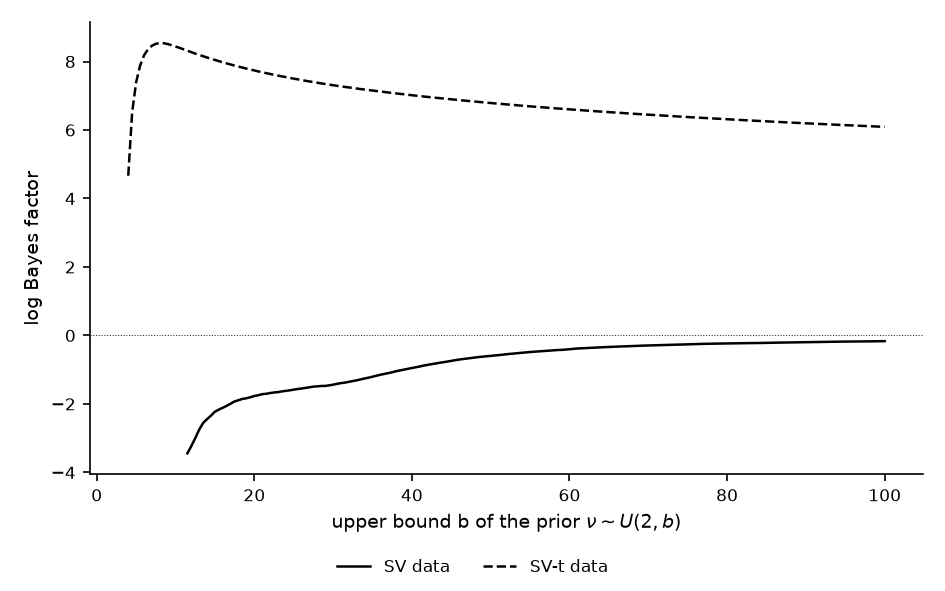
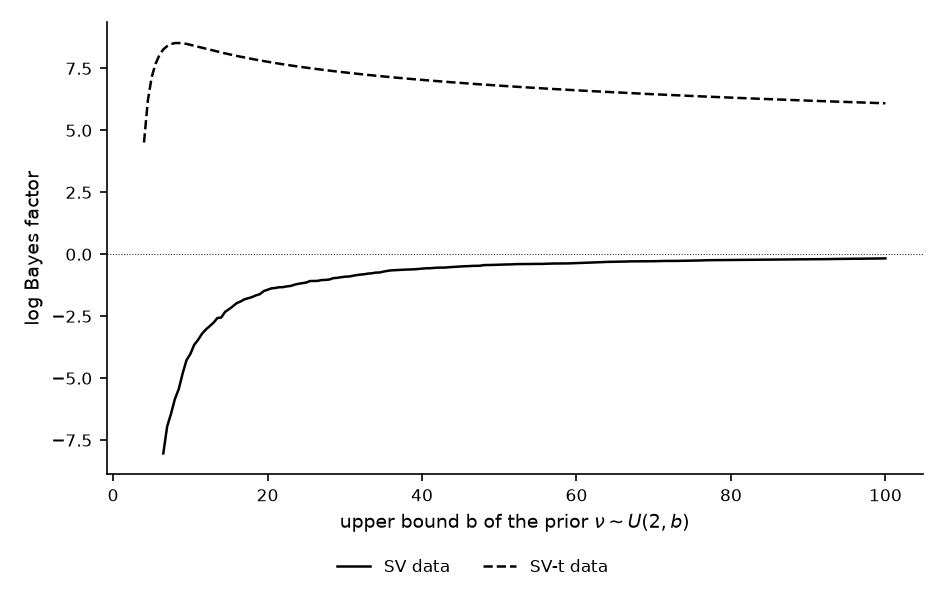
Take the prior variations of sv_compare from its importance draws
The Gibbs draws come from the mixture approximation, and the importance weights correct for it.
At b = 5 on the SV-t data the log Bayes factor moves from 7.39 to 7.16.

diff --git a/guides/sv_compare/guide.py b/guides/sv_compare/guide.py
@@ -4,12 +4,12 @@ likelihoods on two data sets: the data of guides/sv_states, generated by SV, and
 guides/sv_t, generated by SV-t. ssm.intlike_sv and ssm.intlike_sv_t integrate the log-volatilities
 out, the Gibbs samplers of guides/sv_gibbs and guides/sv_t draw the parameters, and importance
 sampling with the cross-entropy importance density estimates the marginal likelihoods. Section 2
-computes the Bayes factor of SV-t against SV under other priors of nu from the same draws. Section
-3 changes the prior of mu_h. The sections called "the code to adapt" are all a comparison needs.
-The checks compute the marginal likelihood of the constant variance by quadrature, the integrated
-likelihood of the first 50 observations by importance sampling from the prior of h, the estimates
-under another seed and with more draws of h, and one marginal likelihood of section 2 from a new
-run. Saves fig_prior.png next to this file.
+computes the Bayes factor of SV-t against SV under other priors of nu from the same importance
+draws. Section 3 changes the prior of mu_h. The sections called "the code to adapt" are all a
+comparison needs. The checks compute the marginal likelihood of the constant variance by
+quadrature, the integrated likelihood of the first 50 observations by importance sampling from
+the prior of h, the estimates under another seed and with more draws of h, and one marginal
+likelihood of section 2 from a new run. Saves fig_prior.png next to this file.
 """
 
 import os
@@ -137,7 +137,7 @@ def is_logml(lp, draws, R, rng):
     """log p(y) by importance sampling, as in guides/tvp_compare: a t density with 5 degrees of
     freedom at the mean and covariance of the posterior draws, the cross-entropy fit of a normal
     density (Chan and Eisenstat, 2015), with heavier tails. lml is the log of the mean of all R
-    weights; nse comes from 20 batches."""
+    weights; nse comes from 20 batches. logw and phi are the log weights and the R draws."""
     nu = 5
     d = draws.shape[1]
     m = draws.mean(axis=0)
@@ -152,7 +152,27 @@ def is_logml(lp, draws, R, rng):
     lml = logmeanexp(logw)
     lb = np.array([logmeanexp(wb) for wb in logw.reshape(20, R // 20)])
     nse = lb.std(ddof=1) / np.sqrt(20)
-    return lml, nse
+    return lml, nse, logw, phi
+
+
+def is_bound(logw, nu, b, nuub):
+    """log p(y) under nu ~ U(2, b), from the log weights logw and the draws nu of is_logml under
+    nu ~ U(2, nuub): the log of the mean of w_r*(nuub - 2)/(b - 2)*1(nu_r < b). nse comes from
+    the 20 batches of is_logml, by the delta method, since a batch can hold no draw below b.
+    p = Pr(nu < b | y), the share of the weights on the draws below b; n = their number."""
+    R = logw.size
+    inb = nu < b
+    n = int(np.sum(inb))
+    if n == 0:                                          # no draw below b
+        return -np.inf, np.nan, 0.0, 0
+    mx = np.max(logw)
+    w = np.exp(logw - mx)
+    wb = w * inb * (nuub - 2) / (b - 2)
+    lml = mx + np.log(np.mean(wb))
+    mb = wb.reshape(20, R // 20).mean(axis=1)           # the batch means
+    nse = mb.std(ddof=1) / (np.sqrt(20) * mb.mean())
+    p = np.sum(w[inb]) / np.sum(w)
+    return lml, nse, p, n
 
 
 def prior_is(s2, muh, phi, sig2h, nu, N, nb, rng):
@@ -235,13 +255,14 @@ def ljnu(nu):
 
 
 nsim, burnin, R, Mh = 5000, 500, 5000, 50
-nsim_t = 20000                                  # SV-t: the tail of nu needs a longer chain
+nsim_t = 20000                                  # SV-t: the draws of nu are highly autocorrelated
 lml = np.zeros((3, 2))
 nse = np.zeros((3, 2))
 post = {}                                       # post[m, d]: the draws of model m on data set d
 hbar = {}
 lml_q = np.zeros(2)
 lratio = np.zeros(2)
+lw, zr = {}, {}                                 # the log weights and the importance draws
 for d in range(2):
     y = Y[d]
     # constant variance: y_t ~ N(mu, e^{mu_h}), z = (mu, mu_h); exact draws and quadrature
@@ -251,7 +272,7 @@ for d in range(2):
         return (np.sum(lnorm(y, z[0], np.exp(z[1]))) + lnorm(z[0], pr.mu0, pr.Vmu)
                 + lnorm(z[1], pr.muh0, pr.Vmuh))
 
-    lml[0, d], nse[0, d] = is_logml(lp_cv, post[0, d], R, rng)
+    lml[0, d], nse[0, d], lw[0, d], zr[0, d] = is_logml(lp_cv, post[0, d], R, rng)
 
     # SV: z = (mu, mu_h, atanh(phi), log sigma_h^2); the draws of guides/sv_gibbs
     th, hbar[1, d] = sv_gibbs(y, nsim, burnin, pr, rng)
@@ -264,7 +285,7 @@ for d in range(2):
         ljac = np.log(1 - phi**2) + z[3]                # log Jacobian of (phi, sigma_h^2)
         return ll + lprior(mu, muh, phi, sig2h) + ljac
 
-    lml[1, d], nse[1, d] = is_logml(lp_sv, post[1, d], R, rng)
+    lml[1, d], nse[1, d], lw[1, d], zr[1, d] = is_logml(lp_sv, post[1, d], R, rng)
 
     # SV-t: z adds log((nu - 2)/(nuub - nu)); the draws of guides/sv_t
     th, hbar[2, d] = svt_gibbs(y, nsim_t, burnin, pr, rng)
@@ -279,7 +300,7 @@ for d in range(2):
         ljac = np.log(1 - phi**2) + z[3] + ljnu(nu)                # the log Jacobian
         return ll + lpri + ljac
 
-    lml[2, d], nse[2, d] = is_logml(lp_svt, post[2, d], R, rng)
+    lml[2, d], nse[2, d], lw[2, d], zr[2, d] = is_logml(lp_svt, post[2, d], R, rng)
 
 # ---- 1. the results and the checks ----
 print(f'\nlog marginal likelihoods (numerical standard errors), R = {R}, {Mh} draws of h per call')
@@ -364,9 +385,9 @@ for d in range(2):
                     return (ll + lprior(mu, muh, phi, sig2h) - np.log(pr.nuub - 2)
                             + np.log(1 - phi**2) + z[3] + ljnu(nu))
             if k == 0:
-                lml_s[m - 1, d], nse_s[m - 1, d] = is_logml(lp, post[m, d], Rk, rng)
+                lml_s[m - 1, d], nse_s[m - 1, d], _, _ = is_logml(lp, post[m, d], Rk, rng)
             else:
-                lml_m[m - 1, d], nse_m[m - 1, d] = is_logml(lp, post[m, d], Rk, rng)
+                lml_m[m - 1, d], nse_m[m - 1, d], _, _ = is_logml(lp, post[m, d], Rk, rng)
 print(f'\nseed 3 and {Mh} draws of h, R = {R}; {4 * Mh} draws of h, R = {R // 2}:')
 for d in range(2):
     for m in (1, 2):
@@ -377,28 +398,29 @@ for d in range(2):
               f'{lml_m[m - 1, d]:.2f} ({nse_m[m - 1, d]:.3f}); largest gap {gaps.max():.1f} '
               f'joint standard errors')
 
-# ---- 2. the prior of nu: the log Bayes factor of SV-t against SV, from the same draws ----
+# ---- 2. the prior of nu: the log Bayes factor of SV-t against SV, from the same importance
+# draws ----
 # p_b(y) = p(y) E[p_b(nu)/p(nu) | y] for nu ~ U(2, b), b <= nuub, under which
-# p_b(nu)/p(nu) = (nuub - 2)/(b - 2) for nu < b and 0 otherwise
+# p_b(nu)/p(nu) = (nuub - 2)/(b - 2) for nu < b and 0 otherwise. With the importance draws and
+# weights of section 1, p_b(y) is the mean of w_r*(nuub - 2)/(b - 2)*1(nu_r < b).
 bs = [5, 10, 20, 30, 50, 100]
-print('\nlog Bayes factor of SV-t against SV for nu ~ U(2, b): value (Monte Carlo standard '
-      'error of log P), P = posterior probability of nu < b')
-print(f'{"b":>6} {dnames[0]:>34} {dnames[1]:>34}')
-lbf_b = np.full((len(bs), 2), -np.inf)
+print('\nlog Bayes factor of SV-t against SV for nu ~ U(2, b): value (numerical standard '
+      'error), P = posterior probability of nu < b, n = importance draws of nu below b')
+print(f'{"b":>6} {dnames[0]:>40} {dnames[1]:>40}')
+lml_b = np.zeros((len(bs), 2))
+nse_b = np.zeros((len(bs), 2))
 pb = np.zeros((len(bs), 2))
-sep = np.full((len(bs), 2), np.nan)
+nb = np.zeros((len(bs), 2), dtype=int)
 for i, b in enumerate(bs):
     line = f'{b:6d}'
     for d in range(2):
-        ind = (nuof(post[2, d][:, 4]) < b).astype(float)
-        pb[i, d] = ind.mean()
-        if pb[i, d] > 0:
-            sep[i, d] = ssm.mcse(ind, 200)[0] / pb[i, d]   # the standard error of log P, by the
-            lbf_b[i, d] = (lml[2, d] - lml[1, d] + np.log((pr.nuub - 2) / (b - 2))   # delta method
-                           + np.log(pb[i, d]))
-            line += f' {lbf_b[i, d]:12.2f} ({sep[i, d]:.2f}), P = {pb[i, d]:.3f}'
+        lml_b[i, d], nse_b[i, d], pb[i, d], nb[i, d] = is_bound(lw[2, d], nuof(zr[2, d][4]), b,
+                                                                pr.nuub)
+        if nb[i, d] >= 100:                     # at least 100 importance draws below b
+            line += (f' {lml_b[i, d] - lml[1, d]:10.2f} ({np.hypot(nse_b[i, d], nse[1, d]):.3f}),'
+                     f' P = {pb[i, d]:.3f}, n = {nb[i, d]:4d}')
         else:
-            line += f' {"no draw of nu below b":>34}'
+            line += f' {f"{nb[i, d]} importance draws below b":>40}'
     print(line)
 
 # ---- 2. the checks: the marginal likelihood of SV-t on the SV data with nu ~ U(2, 50), from a
@@ -424,11 +446,11 @@ def lpc(z):
             + np.log((nu - 2) * (bc - nu) / (bc - 2)))
 
 
-lc, nc = is_logml(lpc, zc, R, rng)
+lc, nc, _, _ = is_logml(lpc, zc, R, rng)
 ib = bs.index(bc)
-print(f'SV-t on the SV data with nu ~ U(2, {bc}): new run {lc:.2f} ({nc:.3f}); from the draws of '
-      f'section 1 {lml[2, 0] + np.log((pr.nuub - 2) / (bc - 2)) + np.log(pb[ib, 0]):.2f} '
-      f'({sep[ib, 0]:.2f})')
+print(f'SV-t on the SV data with nu ~ U(2, {bc}): new run {lc:.2f} ({nc:.3f}); from the importance '
+      f'draws of section 1 {lml_b[ib, 0]:.2f} ({nse_b[ib, 0]:.3f}); '
+      f'{(lml_b[ib, 0] - lc) / np.hypot(nc, nse_b[ib, 0]):.1f} joint standard errors apart')
 
 # ---- the figure: the log Bayes factor of SV-t against SV against the upper bound of the prior
 # of nu ----
@@ -437,10 +459,12 @@ fig, ax = plt.subplots(figsize=(6.30, 3.94))
 st = ['-', '--']
 hl = [None, None]
 for d in (1, 0):
-    p = np.array([np.mean(nuof(post[2, d][:, 4]) < b) for b in bgrid])
-    ok = p * nsim_t >= 50                       # at least 50 draws of nu below b
-    v = (lml[2, d] - lml[1, d] + np.log((pr.nuub - 2) / (bgrid[ok] - 2)) + np.log(p[ok]))
-    hl[d], = ax.plot(bgrid[ok], v, st[d], color='k', linewidth=1.2)
+    v = np.zeros(bgrid.size)
+    n = np.zeros(bgrid.size)
+    for k, b in enumerate(bgrid):
+        v[k], _, _, n[k] = is_bound(lw[2, d], nuof(zr[2, d][4]), b, pr.nuub)
+    ok = n >= 100                               # at least 100 importance draws below b
+    hl[d], = ax.plot(bgrid[ok], v[ok] - lml[1, d], st[d], color='k', linewidth=1.2)
 ax.axhline(0, color=(.15, .15, .15), linestyle=':', linewidth=.5)
 ax.spines[['top', 'right']].set_visible(False)
 ax.tick_params(labelsize=8)
@@ -452,14 +476,15 @@ fig.savefig(os.path.join(HERE, 'fig_prior.png'), dpi=150)
 plt.close(fig)
 
 # ---- 3. another prior of mu_h, mu_h ~ N(0, 1), in all three models: the adaptation ----
-# p_new(y) = p(y) E[p_new(mu_h)/p(mu_h) | y], from the draws of section 1
+# p_new(y) = p(y) E[p_new(mu_h)/p(mu_h) | y]. With the importance draws and weights of section 1,
+# p_new(y) is the mean of w_r*p_new(mu_h_r)/p(mu_h_r).
 print('\nmu_h ~ N(0, 1): log marginal likelihoods and their change')
 lml_n = np.zeros((3, 2))
 for d in range(2):
     for m in range(3):
-        mh = post[m, d][:, 1]                               # the draws of mu_h
+        mh = zr[m, d][1]                                    # the importance draws of mu_h
         r = lnorm(mh, 0, 1) - lnorm(mh, pr.muh0, pr.Vmuh)   # log p_new(mu_h) - log p(mu_h)
-        lml_n[m, d] = lml[m, d] + logmeanexp(r)             # log p_new(y)
+        lml_n[m, d] = logmeanexp(lw[m, d] + r)              # log p_new(y)
 for m in range(3):
     print(f'{mnames[m]:<18} {lml_n[m, 0]:10.2f} ({lml_n[m, 0] - lml[m, 0]:+.2f}) '
           f'{lml_n[m, 1]:10.2f} ({lml_n[m, 1] - lml[m, 1]:+.2f})')

diff --git a/guides/sv_compare/README.md b/guides/sv_compare/README.md
@@ -112,7 +112,8 @@ The importance density of Step 3 is fitted to posterior draws of the parameters.
 SV-$`t`$, the draws come from the Gibbs samplers of the second and third guides. `guide.py` holds
 their loops as the functions `sv_gibbs` and `svt_gibbs`, which also return the posterior mean of
 $`\mathbf{h}`$. After a burn-in of 500, the SV chain keeps 5,000 draws and the SV-$`t`$ chain
-20,000. Step 5 uses the draws of $`\nu`$ in its lower tail, which a short chain reaches rarely.
+20,000. The SV-$`t`$ chain is longer because its draws of $`\nu`$ are highly autocorrelated, and
+the importance density of Step 3 is fitted to them.
 
 The constant variance needs no sampler. Given $`\mu_h`$, the data are normal and $`\mu`$
 integrates out in closed form:
@@ -159,21 +160,28 @@ def lp_svt(z):
     return ll + lpri + ljac
 
 
-lml[2, d], nse[2, d] = is_logml(lp_svt, post[2, d], R, rng)
+lml[2, d], nse[2, d], lw[2, d], zr[2, d] = is_logml(lp_svt, post[2, d], R, rng)
 ```
 
 `is_logml` is the function of
 [How to Tell Whether a Coefficient Varies over Time](../tvp_compare/). Its importance density is
 the cross-entropy fit of a normal density to the posterior draws, the method of Chan and
 Eisenstat (2015). For the normal family, the fit is the mean and covariance of the draws. The
-importance density is a $`t`$ distribution with 5 degrees of freedom at that location and scale,
-whose heavier tails keep the weights bounded. Let $`f(\mathbf{z})`$ be the density whose log
+importance density is a $`t`$ distribution with 5 degrees of freedom at that location and scale.
+Its tails are heavier than those of the posterior. Let $`f(\mathbf{z})`$ be the density whose log
 `lp_svt` returns, and $`g`$ the importance density. With $`R = 5000`$ draws
 $`\mathbf{z}^{(r)}`$ from $`g`$ and weights $`w_r = f(\mathbf{z}^{(r)})/g(\mathbf{z}^{(r)})`$, the
 estimate is
 $`\log\hat{p}(\mathbf{y}) = \log\big(\frac{1}{R}\sum_r w_r\big)`$, the log of the mean of all
-the weights. The numerical standard error is the standard deviation of the estimates from 20
-batches of 250 draws, divided by $`\sqrt{20}`$.
+the weights. `is_logml` also returns the log weights and the draws. The numerical standard error
+is the standard deviation of the estimates from 20 batches of 250 draws, divided by
+$`\sqrt{20}`$.
+
+This standard error assumes that the weights have finite variance. Each weight contains the
+estimate of $`p(\mathbf{y} \mid \boldsymbol{\theta})`$ of Step 1, whose Gaussian importance
+density can have thinner tails than $`p(\mathbf{h} \mid \mathbf{y}, \boldsymbol{\theta})`$. The
+weights can then have infinite variance, and the standard error can understate the Monte Carlo
+error.
 
 ## Step 4: Compare the Models
 
@@ -205,34 +213,43 @@ $`98/(b - 2)`$ for $`\nu < b`$ and zero otherwise, so
 p_b(\mathbf{y}) = p(\mathbf{y})\,\mathrm{E}\Big[\frac{p_b(\nu)}{p(\nu)} \,\Big|\, \mathbf{y}\Big] = p(\mathbf{y})\,\frac{98}{b - 2}\,\Pr(\nu < b \mid \mathbf{y}).
 ```
 
-The posterior draws of Step 2 estimate $`\Pr(\nu < b \mid \mathbf{y})`$, so no new run is needed.
-The table gives the log Bayes factor of SV-$`t`$ against SV for each upper bound, with the Monte
-Carlo standard error of $`\log\Pr(\nu < b \mid \mathbf{y})`$ in parentheses:
+The importance draws and weights of Step 3 estimate $`p_b(\mathbf{y})`$ directly, so no new run is
+needed:
+
+```math
+\hat{p}_b(\mathbf{y}) = \frac{1}{R}\sum_{r=1}^{R} w_r\,\frac{98}{b - 2}\,\mathrm{I}\big(\nu^{(r)} < b\big),
+```
+
+where $`\nu^{(r)}`$ is the value of $`\nu`$ in the draw $`\mathbf{z}^{(r)}`$. The share of the
+weights on the draws with $`\nu^{(r)} < b`$ estimates $`\Pr(\nu < b \mid \mathbf{y})`$. Like
+$`\hat{p}(\mathbf{y})`$, both estimates use the exact likelihood. The Gibbs draws of Step 2 come
+from the mixture approximation, and the importance weights correct for it.
+
+We report a value only where at least 100 of the 5,000 draws have $`\nu^{(r)} < b`$. The
+numerical standard error of $`\log\hat{p}_b(\mathbf{y})`$ comes from the 20 batches of Step 3, by
+the delta method, since a batch can hold no draw below $`b`$. The table gives the log Bayes factor
+of SV-$`t`$ against SV for each upper bound, with its numerical standard error in parentheses:
 
 | Upper bound $`b`$ | SV data | SV-$`t`$ data |
 |---|---|---|
-| 5 | no draw of $`\nu`$ below 5 | 7.39 (0.11) |
-| 10 | -5.08 (0.77) | **8.44** (0.03) |
-| 20 | -1.77 (0.39) | 7.74 (0.02) |
-| 30 | -1.44 (0.25) | 7.31 (0.02) |
-| 50 | -0.60 (0.10) | 6.79 (0.01) |
-| 100 | **-0.17** | 6.09 |
-
-Each value also carries the numerical standard error of Step 4, 0.027 on the SV data and 0.049 on
-the SV-$`t`$ data. Where $`\Pr(\nu < b \mid \mathbf{y})`$ is 1, the probability adds no error.
+| 5 | 63 draws of $`\nu`$ below 5 | 7.16 (0.067) |
+| 10 | -4.02 (0.168) | **8.45** (0.050) |
+| 20 | -1.43 (0.097) | 7.77 (0.049) |
+| 30 | -0.90 (0.075) | 7.34 (0.049) |
+| 50 | -0.42 (0.042) | 6.80 (0.049) |
+| 100 | **-0.17** (0.027) | 6.09 (0.049) |
 
 We note two patterns. On the SV-$`t`$ data, a prior that concentrates $`\nu`$ on small values
-raises the log Bayes factor, from 6.09 at $`b = 100`$ to 8.44 at $`b = 10`$ (Figure 1). Of the
-posterior draws, 85.4 percent lie below 10, so the narrower prior puts more of its mass where the
-posterior lies. A bound of 5 cuts into the posterior, with 11.2 percent of the draws below 5, and
-the log Bayes factor falls to 7.39. The curve peaks between 5 and 10.
+raises the log Bayes factor, from 6.09 at $`b = 100`$ to 8.45 at $`b = 10`$ (Figure 1). The
+posterior probability of $`\nu < 10`$ is 0.864, so the narrower prior puts more of its mass where
+the posterior lies. A bound of 5 cuts into the posterior, whose probability below 5 is 0.089, and
+the log Bayes factor falls to 7.16. The curve peaks between 5 and 10.
 
 On the SV data, the posterior of $`\nu`$ lies at large values, and a smaller bound lowers the log
-Bayes factor, to -0.60 at $`b = 50`$, -1.44 at $`b = 30`$ and -1.77 at $`b = 20`$. The estimate
-loses precision as the probability falls. At $`b = 20`$ only 3.7 percent of the draws lie below
-$`b`$, and the standard error is 0.39. At $`b = 10`$ the share is 0.1 percent, and the standard
-error is 0.77. No draw lies below 5, so the draws cannot estimate the Bayes factor there. A new
-run with that prior can.
+Bayes factor. It falls to -0.42 at $`b = 50`$, -0.90 at $`b = 30`$, -1.43 at $`b = 20`$ and -4.02
+at $`b = 10`$. The estimate loses precision as the probability falls. At $`b = 10`$ only 185 of
+the 5,000 draws lie below $`b`$, and the standard error is 0.168. Only 63 lie below 5, so the
+table reports no value there. A new run with that prior can estimate it.
 
 In applications, choose the bound from the tails you consider plausible, and report the Bayes
 factor for a range of bounds around that choice.
@@ -240,8 +257,8 @@ factor for a range of bounds around that choice.
 ![The log Bayes factor of SV-t against SV against the upper bound of the prior of nu](fig_prior.png)
 
 *Figure 1: The log Bayes factor of SV-$`t`$ against SV when $`\nu \sim \mathcal{U}(2, b)`$,
-against the upper bound $`b`$. Each curve starts where at least 50 posterior draws of $`\nu`$ lie
-below $`b`$. A positive value favors SV-$`t`$.*
+against the upper bound $`b`$. Each curve starts where at least 100 of the 5,000 importance
+draws have $`\nu`$ below $`b`$. A positive value favors SV-$`t`$.*
 
 ## How We Check It
 
@@ -266,7 +283,8 @@ SV-$`t`$ data, they are -55.0779 (0.0010) and -55.0567 (0.0117), 1.8 joint stand
 
 For the third check, a new run of SV-$`t`$ with $`\nu \sim \mathcal{U}(2, 50)`$ on the SV data
 estimates its marginal likelihood directly. It gives -1488.18 (0.017). The identity of Step 5
-gives -1488.37 (0.10) from the draws of Step 2.
+gives -1488.19 (0.036) from the importance draws of Step 3, 0.3 joint numerical standard errors
+apart.
 
 The integrated likelihood with 50 draws of $`\mathbf{h}`$ is noisy. Over 20 calls at the posterior
 means of SV, $`\log\hat{p}(\mathbf{y} \mid \boldsymbol{\theta})`$ has a standard deviation of 0.52
@@ -287,21 +305,21 @@ likelihoods change, and do the Bayes factors?
 <summary>Answer</summary>
 
 All six log marginal likelihoods change, by between 0.84 and 1.17. Every model contains
-$`\mu_h`$, so the identity of Step 5 gives each new value from the draws of Step 2:
+$`\mu_h`$, so the identity of Step 5 gives each new value from the importance draws of Step 3:
 
 ```python
-mh = post[m, d][:, 1]                               # the draws of mu_h
+mh = zr[m, d][1]                                    # the importance draws of mu_h
 r = lnorm(mh, 0, 1) - lnorm(mh, pr.muh0, pr.Vmuh)   # log p_new(mu_h) - log p(mu_h)
-lml_n[m, d] = lml[m, d] + logmeanexp(r)             # log p_new(y)
+lml_n[m, d] = logmeanexp(lw[m, d] + r)              # log p_new(y)
 ```
 
 The posterior of $`\mu_h`$ is narrow in all three models, so each log marginal likelihood shifts
 by about the log of the ratio of the two prior densities at that posterior. The shifts are close
 to one another, so the log Bayes factors hardly move. SV against the constant variance goes from
 146.70 to 146.79 on the SV data and from 142.33 to 142.60 on the SV-$`t`$ data. SV-$`t`$ against
-SV stays at -0.17 and goes from 6.09 to 6.14. The prior of a parameter that all models share has
-little effect on their Bayes factors. The priors of $`\phi`$, $`\sigma_h^2`$ and $`\nu`$, which
-some models lack, matter more.
+SV goes from -0.17 to -0.16 and from 6.09 to 6.15. The prior of a parameter that all models share
+has little effect on their Bayes factors. The priors of $`\phi`$, $`\sigma_h^2`$ and $`\nu`$,
+which some models lack, matter more.
 
 </details>
 
